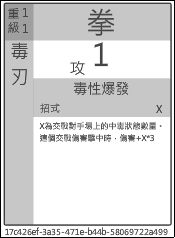
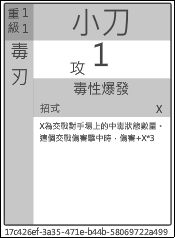
no message

Changed region(s): [[0.4571, 0.0294, 0.7429, 0.1765], [0.4, 0.0588, 0.4571, 0.1471]]

diff --git a/goapp/src/card/index.html b/goapp/src/card/index.html
@@ -129,7 +129,7 @@ body{
 				<div>卡包路徑</div>
 				<div>
 					<div class="hori">
-						<input id="txt_cardUrl" class="easyui-textbox" style="width:200px" value="http://particle-979.appspot.com/common/cardPackage/fighter.json"></input>
+						<input id="txt_cardUrl" class="easyui-textbox" style="width:200px" value="../common/cardPackage/fighter.json"></input>
 					</div>
 					<div class="hori">
 						<a href="#" onclick="onHtmlClick('onBtnCardLoadClick')" class="easyui-linkbutton" style="" data-options="iconCls:'icon-search'"></a>
@@ -138,7 +138,7 @@ body{
 				<div>套牌路徑</div>
 				<div>
 					<div class="hori">
-						<input id="txt_cardsuitUrl" class="easyui-textbox" style="width:200px" value="http://particle-979.appspot.com/common/cardPackage/fighterCardSuit.json"></input>
+						<input id="txt_cardsuitUrl" class="easyui-textbox" style="width:200px" value="../common/cardPackage/fighterCardSuit.json"></input>
 					</div>
 					<div class="hori">
 						<a href="#" onclick="onHtmlClick('onBtnCardSuitLoadClick')" class="easyui-linkbutton" style="" data-options="iconCls:'icon-search'"></a>

diff --git a/goapp/src/card/manager.html b/goapp/src/card/manager.html
@@ -108,6 +108,7 @@ body{
 						<select class="easyui-combobox" style="width:80%;">
 							<option>拳</option>
 							<option>鞋</option>
+							<option>小刀</option>
 							<option>劍</option>
 							<option>刀</option>
 							<option>棍</option>
@@ -115,6 +116,7 @@ body{
 							<option>大刀</option>
 							<option>斧</option>
 							<option>大劍</option>
+							<option>其它</option>
 						</select>
 					</div>
 				</div>

diff --git a/goapp/src/config.go b/goapp/src/config.go
@@ -3,15 +3,11 @@ package hello
 const (
   // han local
   //GameContextPosition = 6401356696911872
-  // vic local
-  //GameContextPosition = 6401356696911872
   // remote
   GameContextPosition = 5668600916475904
   
   // han local
-  CardInfoPosition = 5733953138851840
-  // vic local
   //CardInfoPosition = 5733953138851840
   // remote
-  //CardInfoPosition = 5733953138851840
+  CardInfoPosition = 5178081291534336
 )
